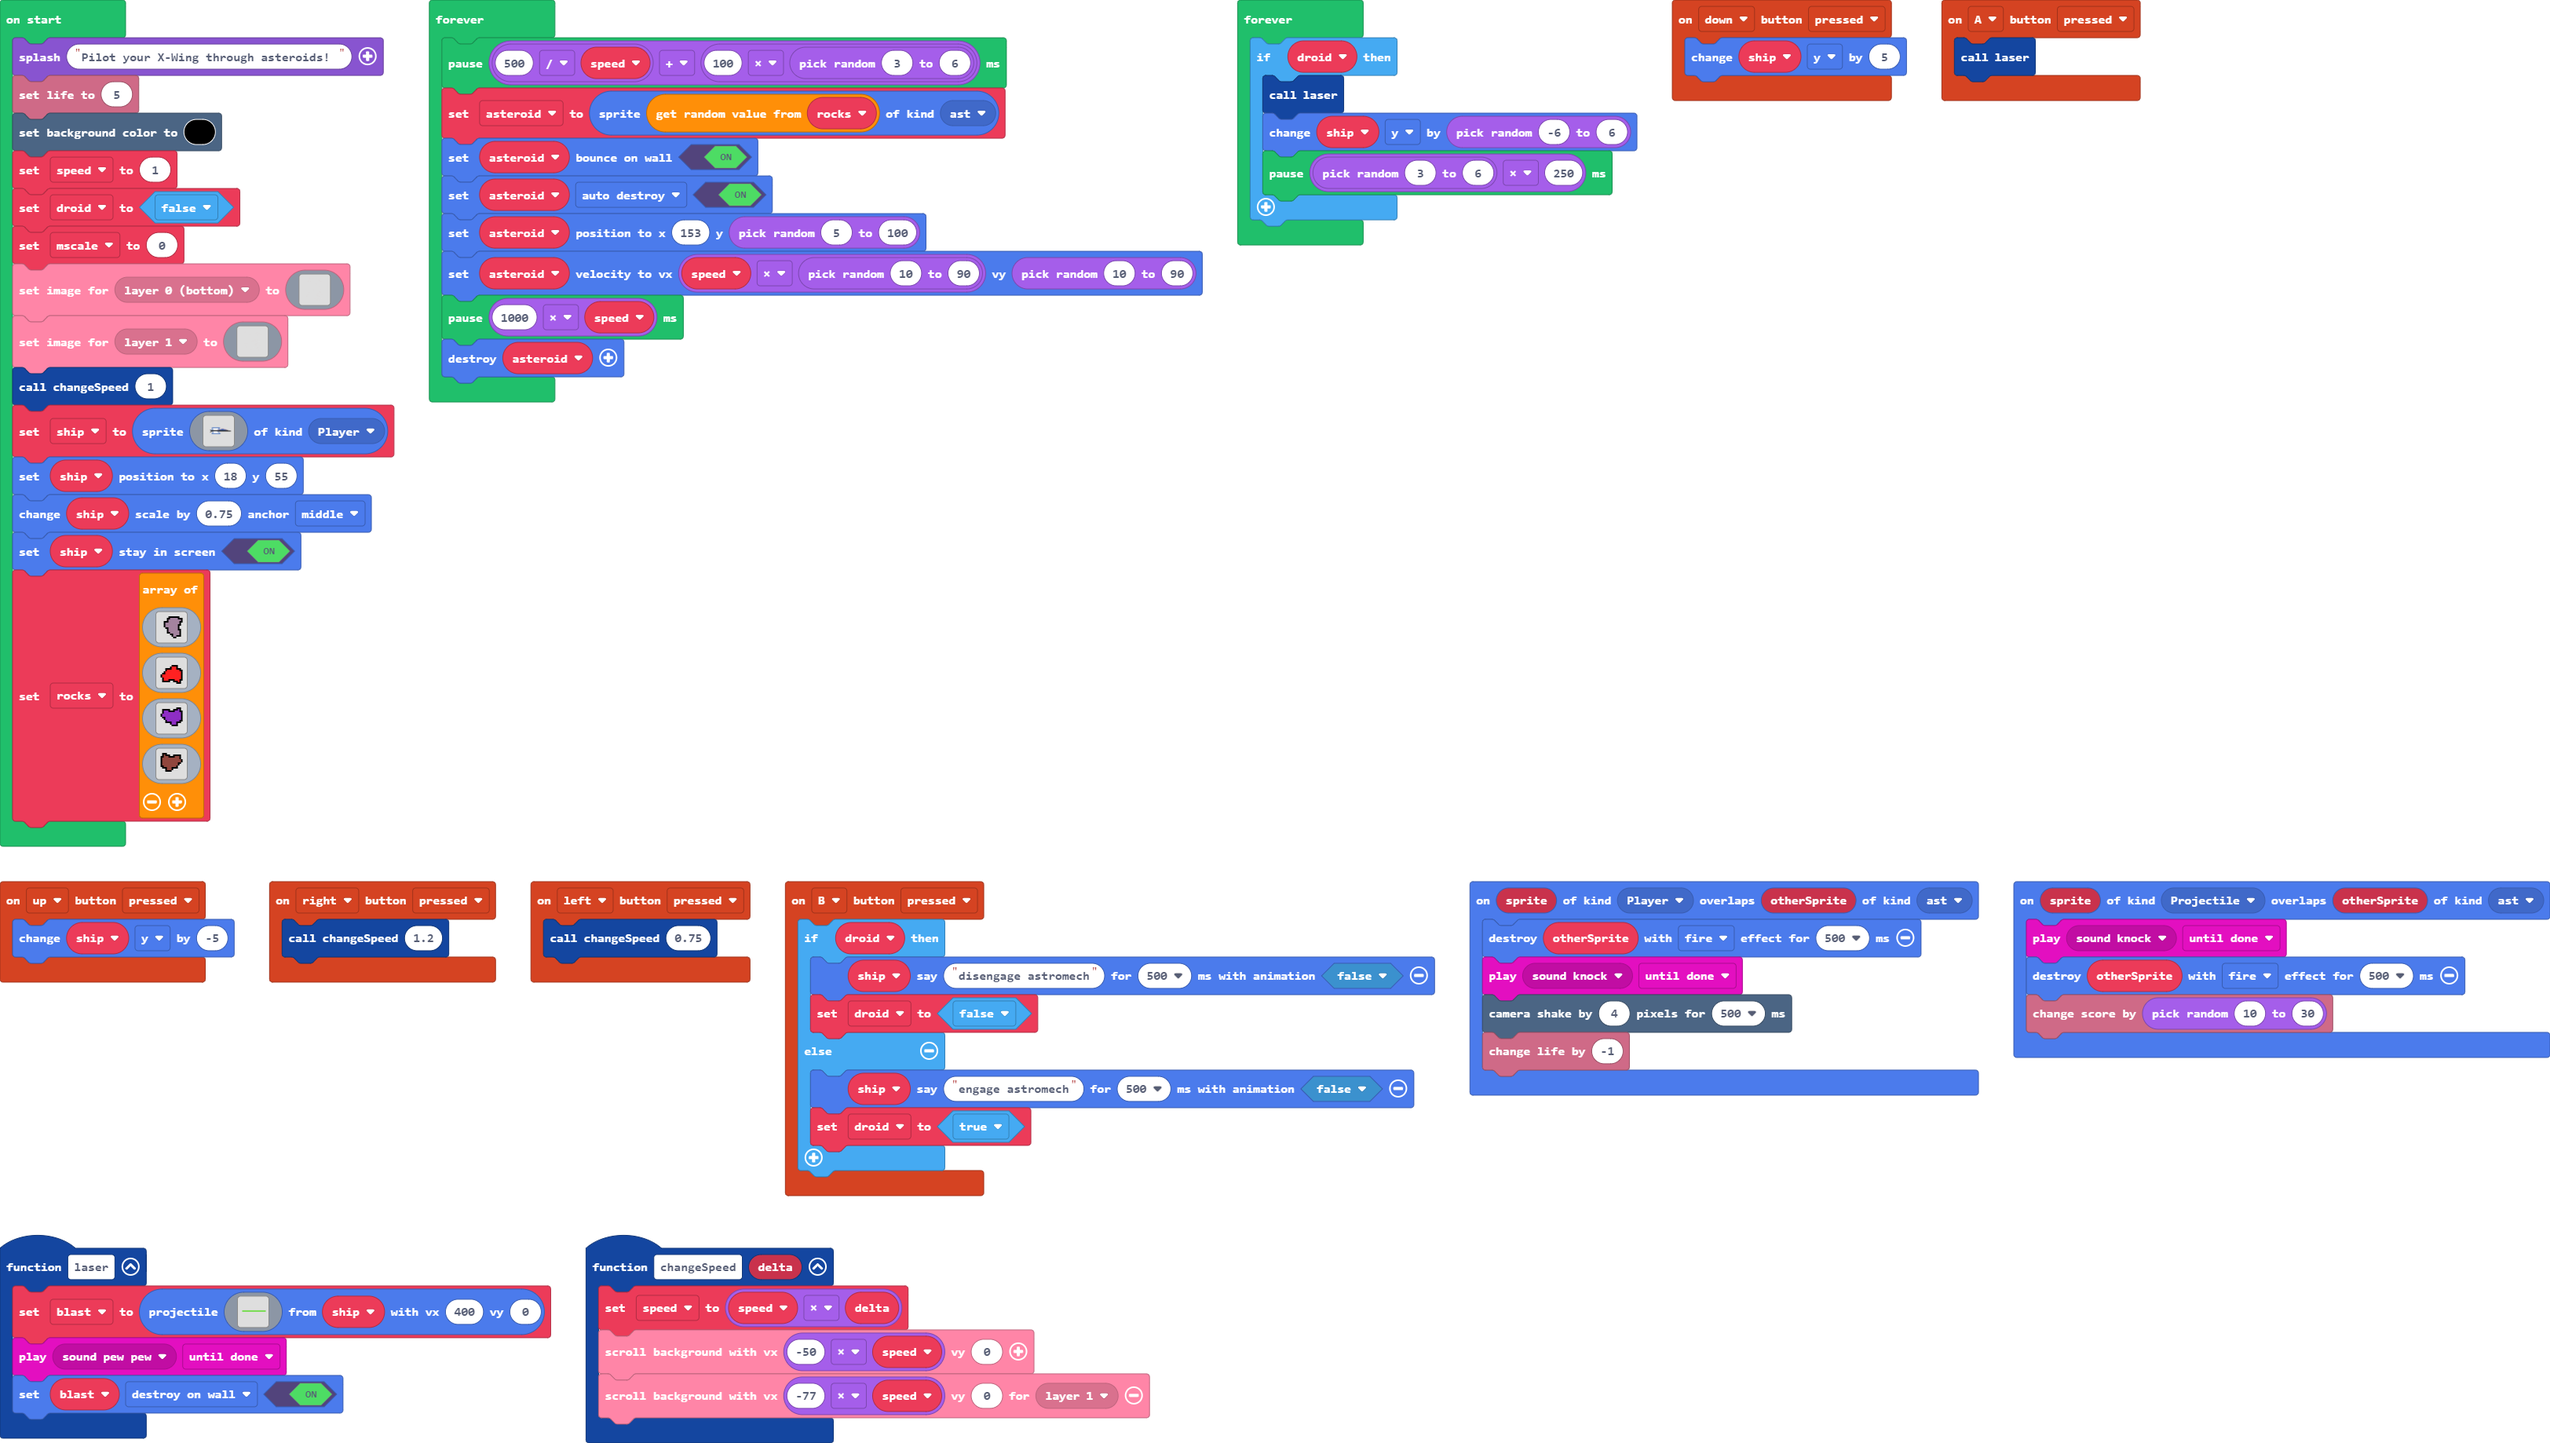
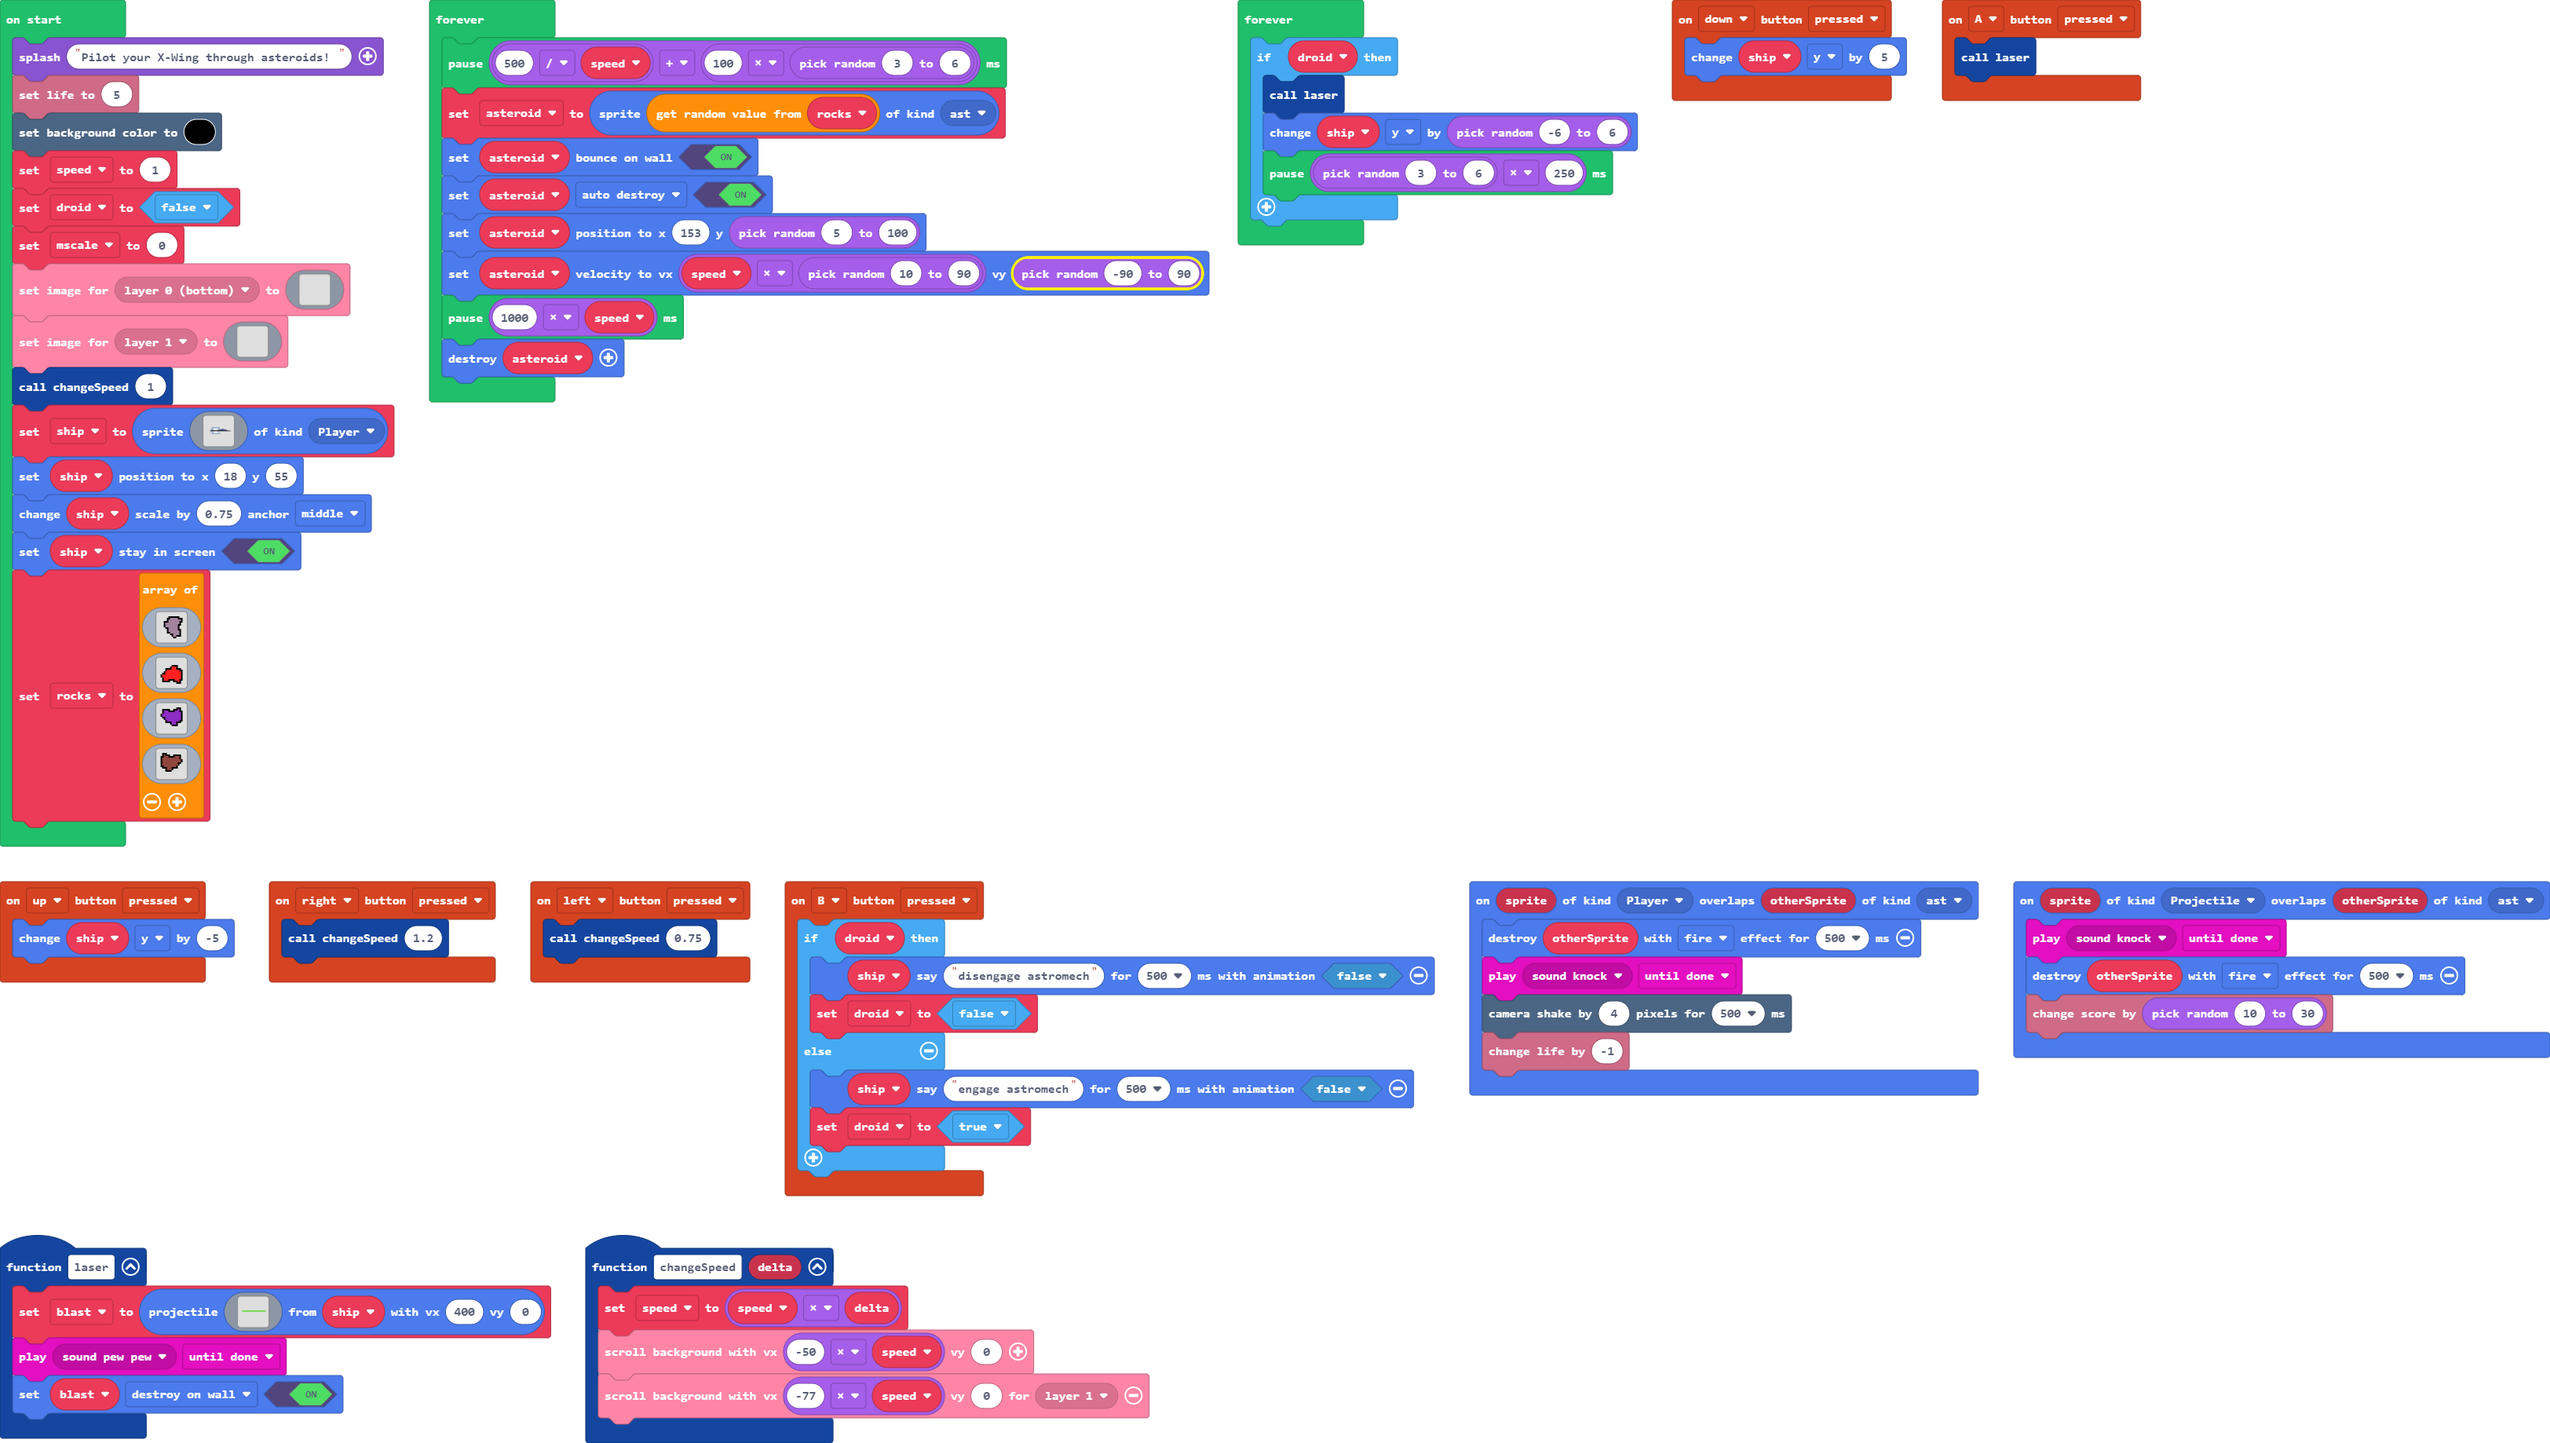
Update main.blocks, main.ts

Changed region(s): [[0.4353, 0.1551, 0.4975, 0.2171]]

diff --git a/main.ts b/main.ts
@@ -76,7 +76,7 @@ forever(function () {
     asteroid.setBounceOnWall(true)
     asteroid.setFlag(SpriteFlag.AutoDestroy, true)
     asteroid.setPosition(153, randint(5, 100))
-    asteroid.setVelocity(speed * randint(10, 90), randint(10, 90))
+    asteroid.setVelocity(speed * randint(10, 90), randint(-90, 90))
     pause(1000 * speed)
     sprites.destroy(asteroid)
 })
